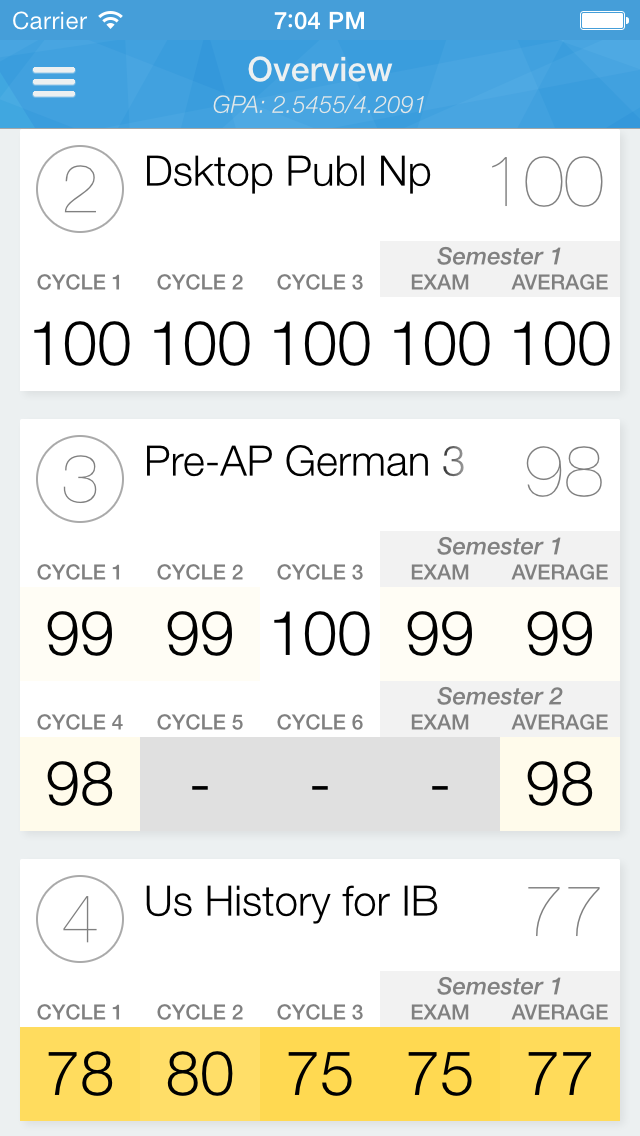
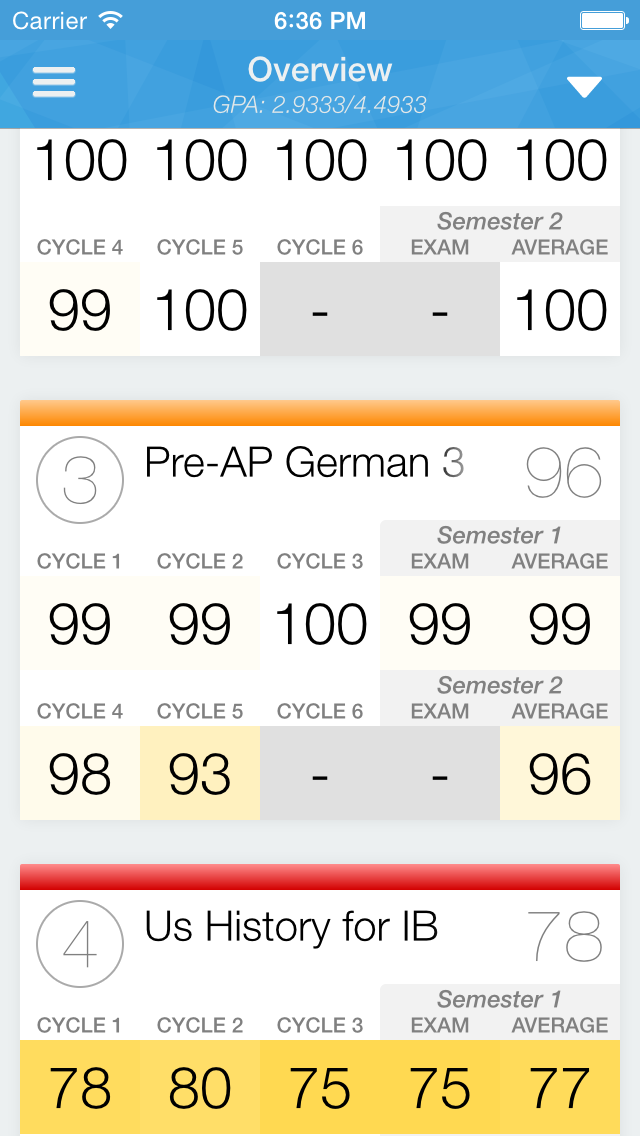
More bugfixes and stuff, v1.0.4

diff --git a/QuickHAC/QuickHAC/SQUGradeOverviewController.m b/QuickHAC/QuickHAC/SQUGradeOverviewController.m
@@ -35,7 +35,8 @@
 - (id) initWithStyle:(UITableViewStyle) style {
     self = [super initWithStyle:style];
     if (self) {
-		_cellsCollapsed = NO;
+		_cellsCollapsed = [[NSUserDefaults standardUserDefaults]
+						   boolForKey:@"mainExpanded"];
 		
         [self.tableView registerClass:[SQUGradeOverviewTableViewCell class]
                forCellReuseIdentifier:@"GradeOverviewCell"];
@@ -53,20 +54,26 @@
 										target:self
 										action:@selector(openSidebar:)];
 		self.navigationItem.leftBarButtonItem = showSidebar;
-        
-    /*    UIBarButtonItem *showNotifications = [[UIBarButtonItem alloc]
-											  initWithImage:[UIImage imageNamed:@"notificationsIcon"]
-											  style:UIBarButtonItemStyleBordered
-											  target:self
-											  action:@selector(showNotifications:)];
-		self.navigationItem.rightBarButtonItem = showNotifications;*/
+	
+		// Set up a collapse triangle
+		UIButton *collapseBtn = [UIButton buttonWithType:UIButtonTypeCustom];
+		collapseBtn.frame = CGRectMake(20, 0, 44, 44);
+		[collapseBtn setImage:[UIImage imageNamed:@"TriangleShirtwaistFactory"]
+					 forState:UIControlStateNormal];
+		
+		[collapseBtn addTarget:self action:@selector(toggleCollapse:)
+			  forControlEvents:UIControlEventTouchUpInside];
 		
 		UIBarButtonItem *collapseToggle = [[UIBarButtonItem alloc]
-										   initWithImage: [UIImage imageNamed:@"ViewSettingsIcon"]
-										   style:UIBarButtonItemStylePlain
-										   target:self
-										   action:@selector(toggleCollapse:)];
-		self.navigationItem.rightBarButtonItem = collapseToggle;
+										   initWithCustomView:collapseBtn];
+	
+		// iOS is stupid
+		UIBarButtonItem *negativeSpacer = [[UIBarButtonItem alloc]
+										   initWithBarButtonSystemItem:UIBarButtonSystemItemFixedSpace
+										   target:nil action:nil];
+		negativeSpacer.width = -10;
+		
+		self.navigationItem.rightBarButtonItems = @[negativeSpacer, collapseToggle];
 		
 		// Set up the title view container and title text
 		_navbarTitle = [[UIView alloc] initWithFrame:CGRectMake(0, 0, 200, 44)];
@@ -129,6 +136,7 @@
 	
 	// Reload table data
 	[self.tableView reloadData];
+	[self updateCollapseTriangle:NO];
 }
 
 - (void) viewDidAppear:(BOOL) animated {
@@ -264,11 +272,39 @@
 	_subtitleLayer.string = [NSString stringWithFormat:gpaFormatString, gpaUnweighted.floatValue, gpaWeighted.floatValue];
 }
 
+#pragma mark - Collapsing
 /*
  * Toggles the collapse status of the cards.
  */
-/*- (void) toggleCollapse:(id) sender {
+- (void) toggleCollapse:(id) sender {
+	_cellsCollapsed = !_cellsCollapsed;
+	[self.tableView reloadData];
 	
-}*/
+	// Save in user defaults
+	[[NSUserDefaults standardUserDefaults] setBool:_cellsCollapsed
+											forKey:@"mainExpanded"];
+	[[NSUserDefaults standardUserDefaults] synchronize];
+	
+	// Update icon
+	[self updateCollapseTriangle:YES];
+}
+
+/*
+ * Animates the collapse triangle to the current collapsing state.
+ */
+- (void) updateCollapseTriangle:(BOOL) animated {
+	UIBarButtonItem *item = self.navigationItem.rightBarButtonItems[1];
+	UIView *view = item.customView;
+	
+	CGFloat angle = (_cellsCollapsed) ? -M_PI_2 : 0;
+	
+	if(animated) {
+		[UIView animateWithDuration:0.4 animations:^{
+			view.transform = CGAffineTransformMakeRotation(angle);
+		}];
+	} else {
+		view.transform = CGAffineTransformMakeRotation(angle);
+	}
+}
 
 @end

diff --git a/QuickHAC/QuickHAC/SQUGradeManager.m b/QuickHAC/QuickHAC/SQUGradeManager.m
@@ -286,7 +286,7 @@ static SQUGradeManager *_sharedInstance = nil;
  * @param class A dictionary describing the course.
  * @return Pointer to the SQUCourse object, or nil.
  */
-- (SQUCourse *) courseEntryForClass:(NSDictionary *) class {
+- (SQUCourse *) courseEntryForClass:(NSDictionary *) class andStudent:(SQUStudent *) student {
 	NSError *err = nil;
 	
 	NSFetchRequest *request = [[NSFetchRequest alloc] init];
@@ -295,7 +295,7 @@ static SQUGradeManager *_sharedInstance = nil;
 	[request setEntity:entity];
 	
 	// Search by title OR course number, current student, and period
-	NSPredicate *predicate = [NSPredicate predicateWithFormat:@"((courseCode == %@) OR (title LIKE[c] %@)) AND (student = %@) AND (period = %@)", class[@"courseNum"], class[@"title"], _student, class[@"period"]];
+	NSPredicate *predicate = [NSPredicate predicateWithFormat:@"((courseCode == %@) OR (title LIKE[c] %@)) AND (student = %@) AND (period = %@)", class[@"courseNum"], class[@"title"], student, class[@"period"]];
 	[request setPredicate:predicate];
 	
 	NSArray *matches = [_coreDataMOContext executeFetchRequest:request error:&err];
@@ -388,7 +388,7 @@ static SQUGradeManager *_sharedInstance = nil;
 		SQUCourse *course;
 		
 		if([self classEntryExists:class andStudent:student]) {
-			course = [self courseEntryForClass:class];
+			course = [self courseEntryForClass:class andStudent:student];
 			NSAssert(course != NULL, @"Course supposedly exists but we can't find it");
 		} else {
 			// We need to create a new course entry.

diff --git a/QuickHAC/QuickHAC/SQUGradeOverviewTableViewCell.m b/QuickHAC/QuickHAC/SQUGradeOverviewTableViewCell.m
@@ -56,7 +56,7 @@
 		_topBar.locations = @[@(0.00), @(1.0)];
 		_topBar.contentsScale = [UIScreen mainScreen].scale;
 		_topBar.masksToBounds = NO;
-		
+
 		
 		// Mask top bar to have 1pt border on top
 		CALayer *layer = [CALayer layer];
@@ -463,9 +463,19 @@
 	
 	// Adjust height for collapsed state
 	if(_isCollapsed) {
+		_topBar.hidden = YES;
 		_backgroundLayer.frame = CGRectMake(10, 10, self.frame.size.width - 20, SQUGradeOverviewCellCollapsedHeight - 10);
+		
+		_courseTitle.frame = CGRectMake(62, 14, _backgroundLayer.frame.size.width - 130, 32);
+		_currentAverageLabel.frame = CGRectMake(_backgroundLayer.frame.size.width - 70, 5, 62, 38);
+		_periodCircle.frame = CGRectMake(8, 5, 44, 44);
 	} else {
+		_topBar.hidden = NO;
 		_backgroundLayer.frame = CGRectMake(10, 10, self.frame.size.width - 20, [SQUGradeOverviewTableViewCell cellHeightForCourse:_courseInfo] - 6);
+		
+		_courseTitle.frame = CGRectMake(62, 18, _backgroundLayer.frame.size.width - 130, 32);
+		_currentAverageLabel.frame = CGRectMake(_backgroundLayer.frame.size.width - 70, 15, 62, 38);
+		_periodCircle.frame = CGRectMake(8, 18, 44, 44);
 	}
 	
 	// Update BG layer and shadow path

diff --git a/QuickHAC/QuickHAC/SQUCrashHandler.m b/QuickHAC/QuickHAC/SQUCrashHandler.m
@@ -105,7 +105,7 @@ static SQUCrashHandler *_sharedInstance = nil;
  */
 - (void) alertView:(UIAlertView *) alertView clickedButtonAtIndex:(NSInteger) buttonIndex {
 	if(buttonIndex == 1) {
-		NSLog("Submit report");
+		// NSLog(@"Submit report");
 	} else {
 		return;
 	}
@@ -119,7 +119,7 @@ static SQUCrashHandler *_sharedInstance = nil;
 	crashData = [crashReporter loadPendingCrashReportDataAndReturnError:&error];
 	
 	if(error) {
-		NSLog("Couldn't get crash report: %@", error);
+		NSLog(@"Couldn't get crash report: %@", error);
 		return;
 	}
 	

diff --git a/QuickHAC/QuickHAC/SQUDistrictRRISD.m b/QuickHAC/QuickHAC/SQUDistrictRRISD.m
@@ -298,7 +298,7 @@
  */
 - (BOOL) didDisambiguationSucceedWithLoginData:(NSData *) data {
 	TFHpple *parser = [TFHpple hppleWithHTMLData:data];
-	TFHppleElement *content = [parser searchWithXPathQuery:@"//td[@id='ctl00_tdContent']"][0];
+	TFHppleElement *content = [parser peekAtSearchWithXPathQuery:@"//td[@id='ctl00_tdContent']"];
 	
 	NSArray *contentChildren = [content childrenWithTagName:@"p"];
 

diff --git a/QuickHAC/QuickHAC/SQUGradeOverviewTableViewCell.h b/QuickHAC/QuickHAC/SQUGradeOverviewTableViewCell.h
@@ -10,7 +10,7 @@
 #import <CoreGraphics/CoreGraphics.h>
 
 #define SQUGradeOverviewCellHeight 216.0
-#define SQUGradeOverviewCellCollapsedHeight 76
+#define SQUGradeOverviewCellCollapsedHeight 64
 
 @class SQUCourse, SQUCycle;
 @interface SQUGradeOverviewTableViewCell : UITableViewCell {
